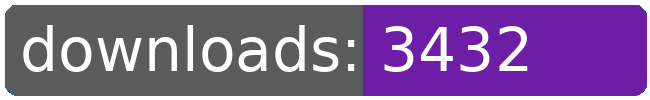
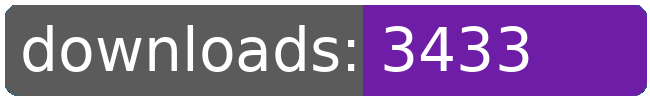
dl log written

Changed region(s): [[0.7692, 0.42, 0.8308, 0.72], [0.7692, 0.27, 0.8, 0.36], [0.8, 0.36, 0.8308, 0.39]]

diff --git a/README.md b/README.md
@@ -21,8 +21,8 @@
 		<td>3372</td>
 		<td>3393</td>
 		<td>3414</td>
-		<td>3432</td>
-		<td>+ 18</td>
+		<td>3433</td>
+		<td>+ 19</td>
 	</tr>
 	<tr>
 		<td>aberrant.kahet.outfitter</td>
@@ -263,8 +263,8 @@
 		<td>1507</td>
 		<td>1538</td>
 		<td>1560</td>
-		<td>1581</td>
-		<td>+ 21</td>
+		<td>1582</td>
+		<td>+ 22</td>
 	</tr>
 	<tr>
 		<td></td>
@@ -274,8 +274,8 @@
 		<td></td>
 		<td></td>
 		<td></td>
-		<td>49121</td>
-		<td>377</td>
+		<td>49123</td>
+		<td>379</td>
 	</tr>
 </table>
 </sub></sup>
@@ -322,8 +322,8 @@
 		<td>3372</td>
 		<td>3393</td>
 		<td>3414</td>
-		<td>3432</td>
-		<td>+ 18</td>
+		<td>3433</td>
+		<td>+ 19</td>
 	</tr>
 	<tr>
 		<td>capture.archons</td>
@@ -465,8 +465,8 @@
 		<td>1507</td>
 		<td>1538</td>
 		<td>1560</td>
-		<td>1581</td>
-		<td>+ 21</td>
+		<td>1582</td>
+		<td>+ 22</td>
 	</tr>
 	<tr>
 		<td>purchaseable.androids</td>
@@ -553,8 +553,8 @@
 		<td></td>
 		<td></td>
 		<td></td>
-		<td>49121</td>
-		<td>377</td>
+		<td>49123</td>
+		<td>379</td>
 	</tr>
 </table>
 </sub></sup>
